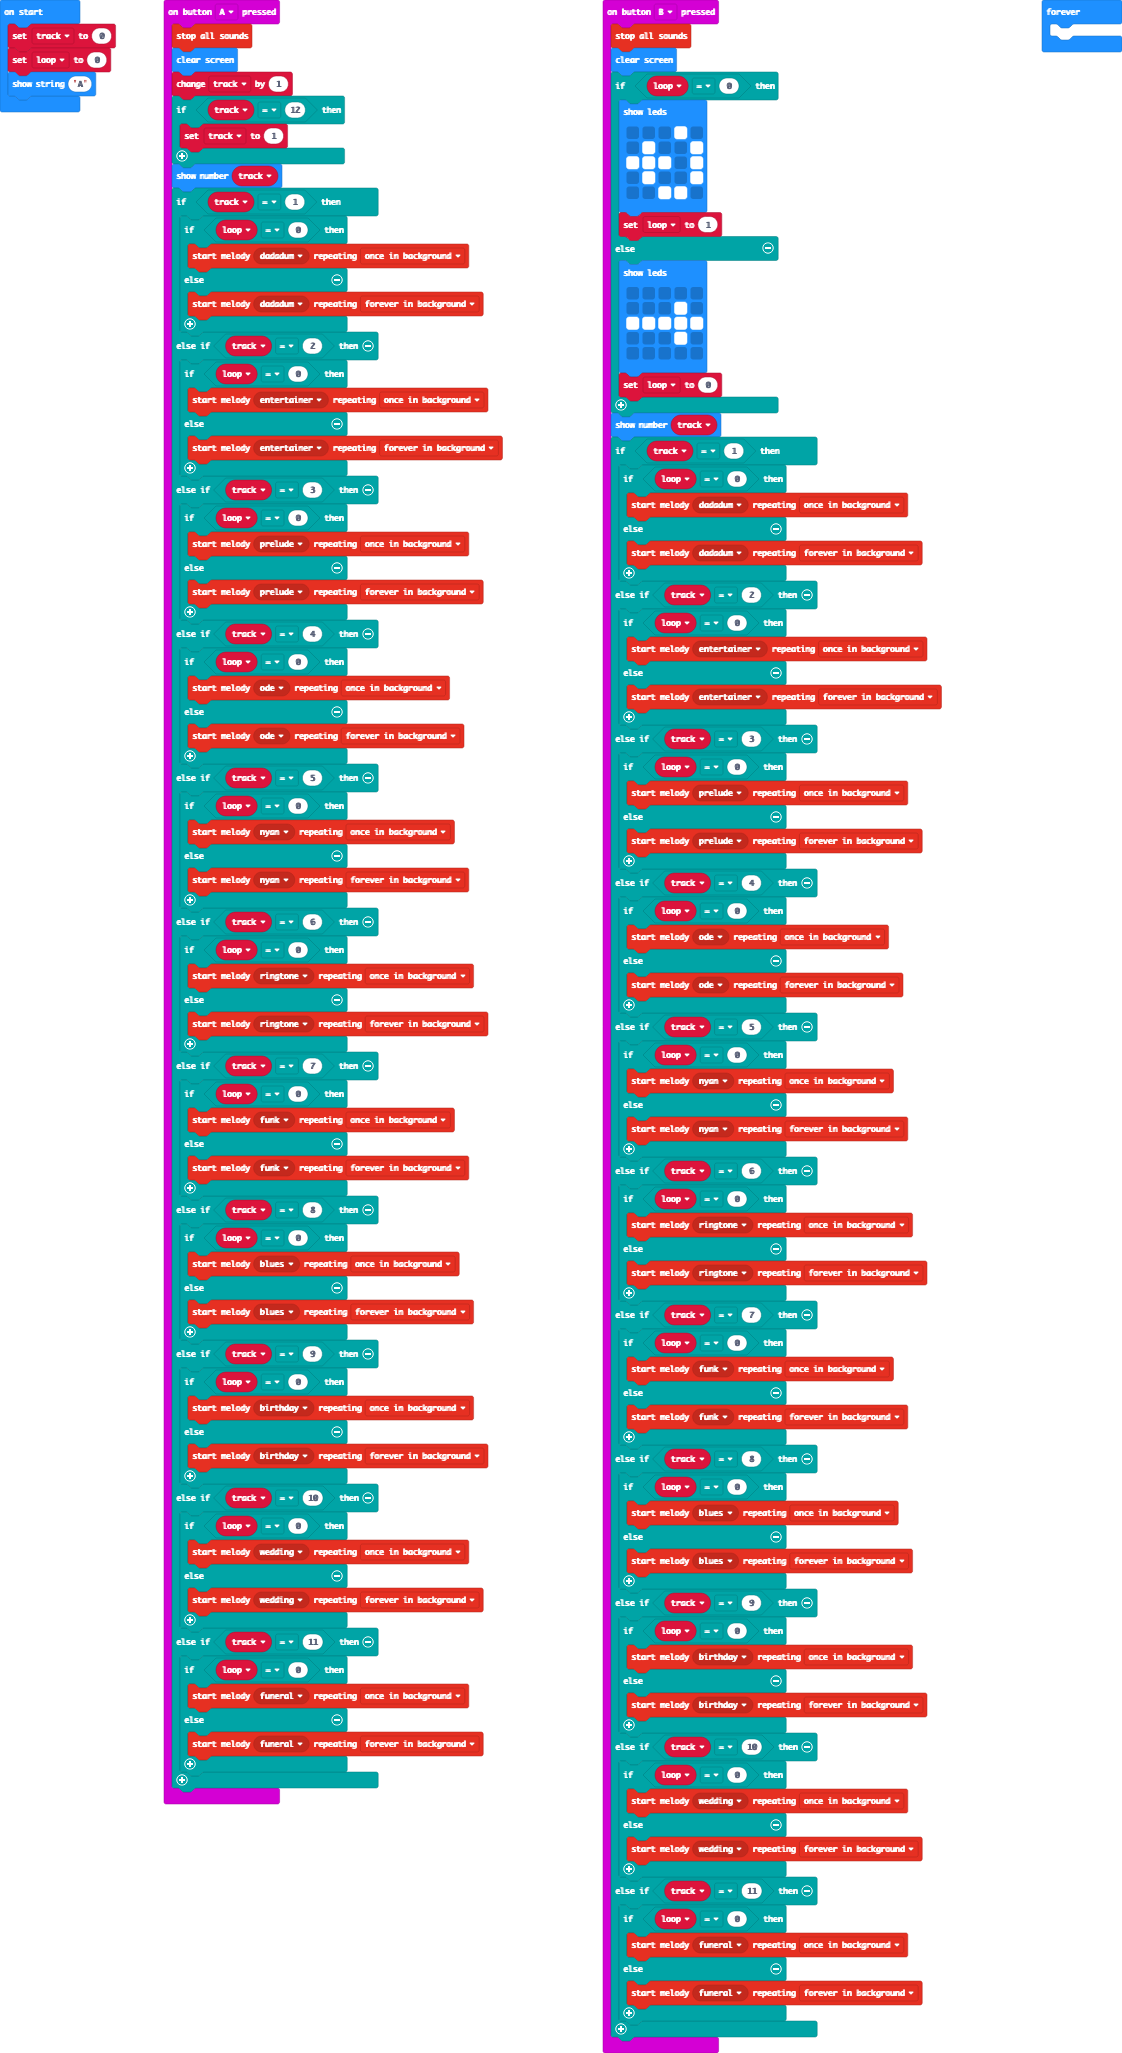
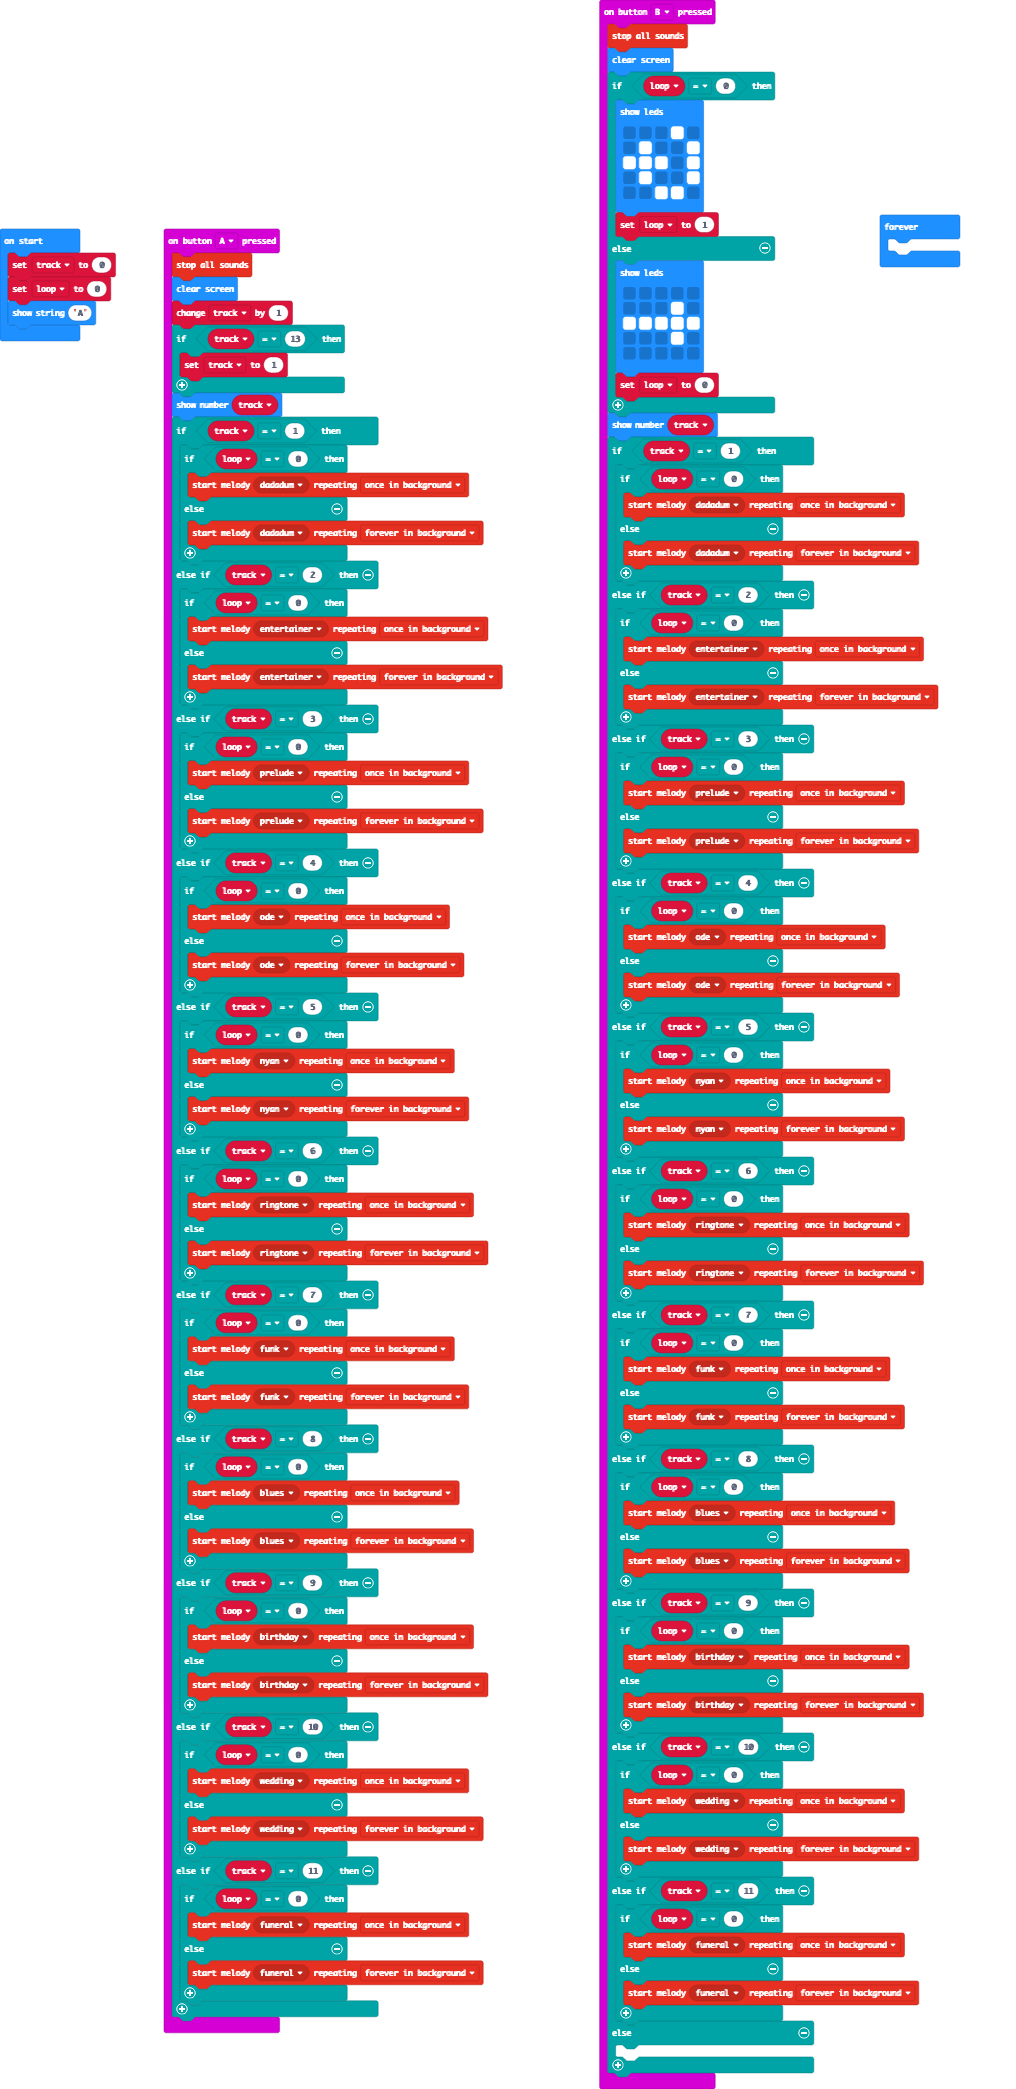
Returning the player to button event driven playback, for responsiveness

diff --git a/main.ts b/main.ts
@@ -2,7 +2,7 @@ input.onButtonPressed(Button.A, function () {
     music.stopAllSounds()
     basic.clearScreen()
     track += 1
-    if (track == 12) {
+    if (track == 13) {
         track = 1
     }
     basic.showNumber(track)
@@ -163,6 +163,8 @@ input.onButtonPressed(Button.B, function () {
         } else {
             music.startMelody(music.builtInMelody(Melodies.Funeral), MelodyOptions.ForeverInBackground)
         }
+    } else {
+    	
     }
 })
 let loop = 0
